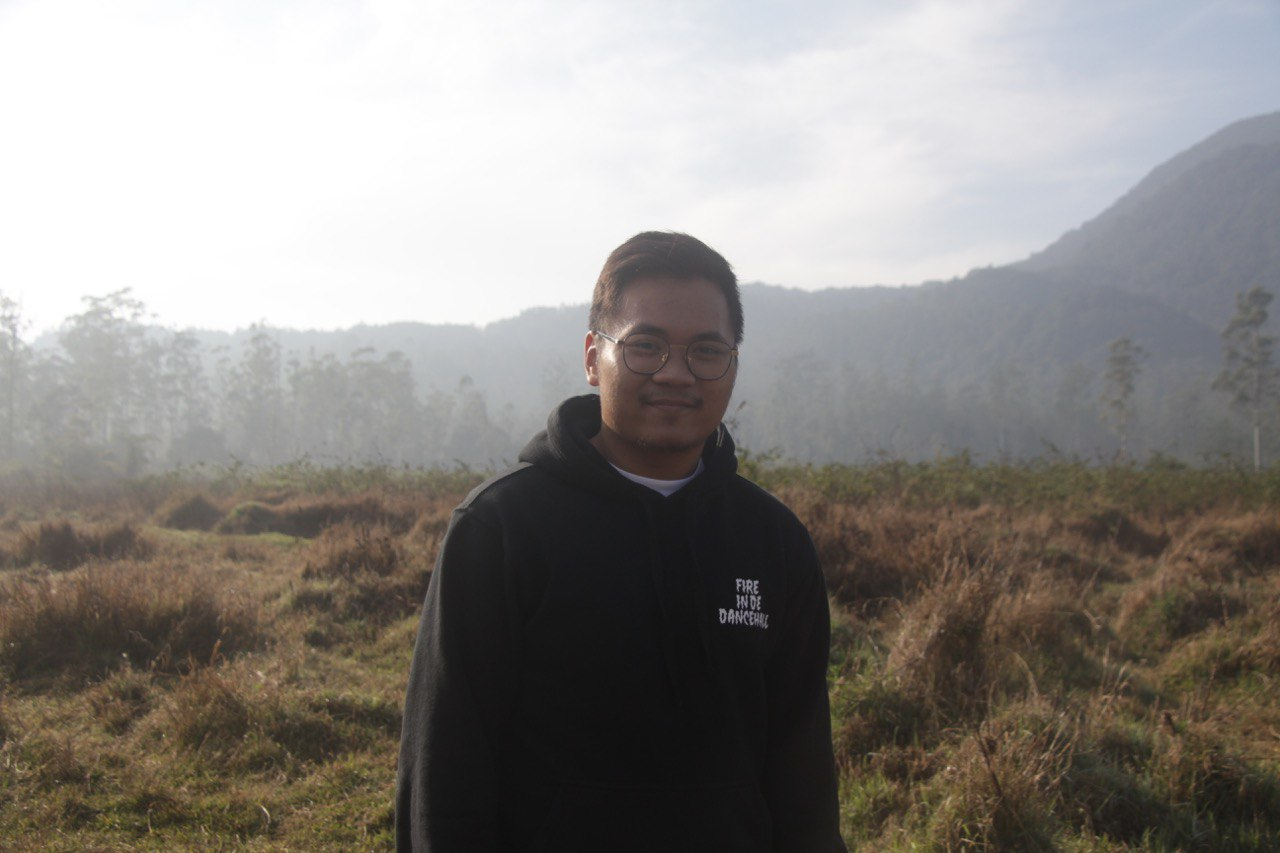
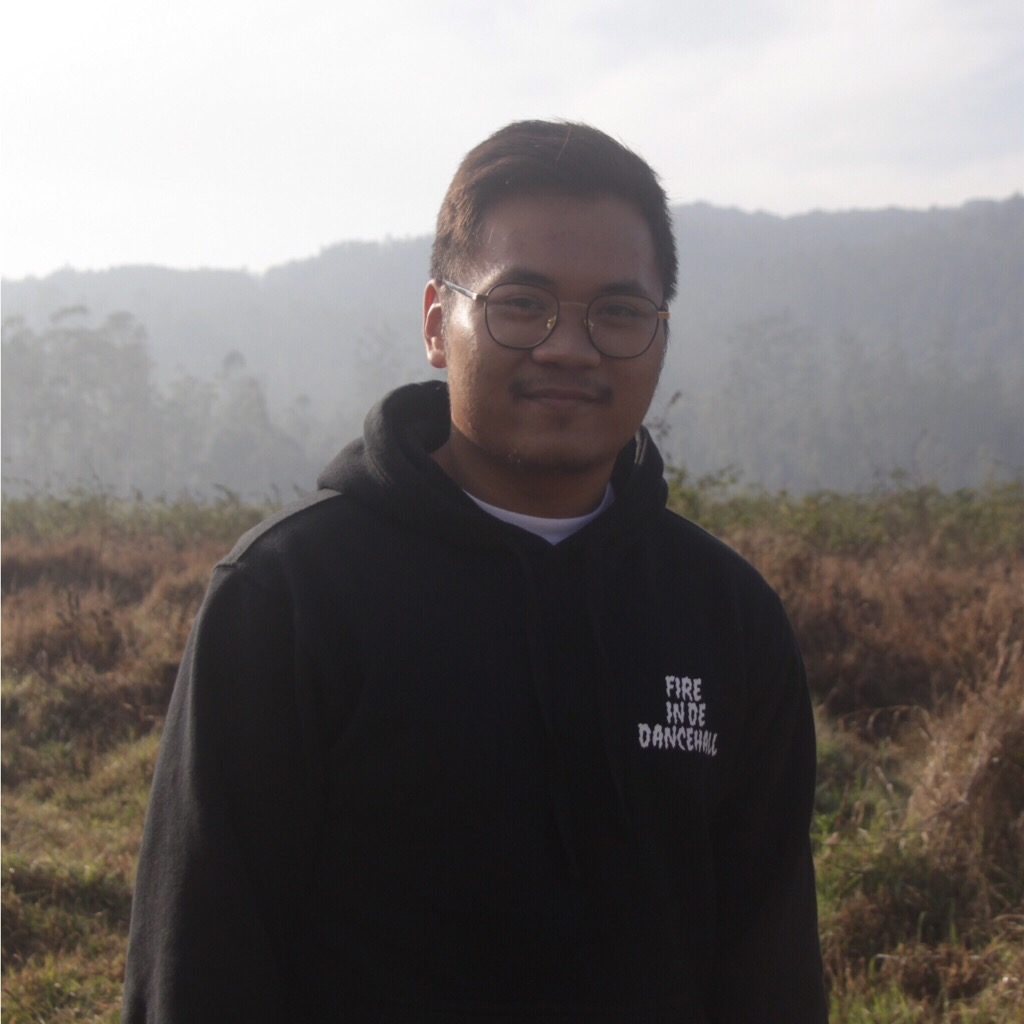
reduce photo size

diff --git a/index.html b/index.html
@@ -45,7 +45,7 @@ sitemap:
 								<header class="major">
 									<h2>About Me</h2>
 								</header>
-								<div class="image-cropper"><img id="profile-picture" src="images/profile.jpeg" align="middle" style="max-width: 400px;
+								<div class="image-cropper"><img id="profile-picture" src="images/profile.jpg" align="middle" style="max-width: 400px;
 									max-height: 400px;
 									position: relative;
 									overflow: hidden;
